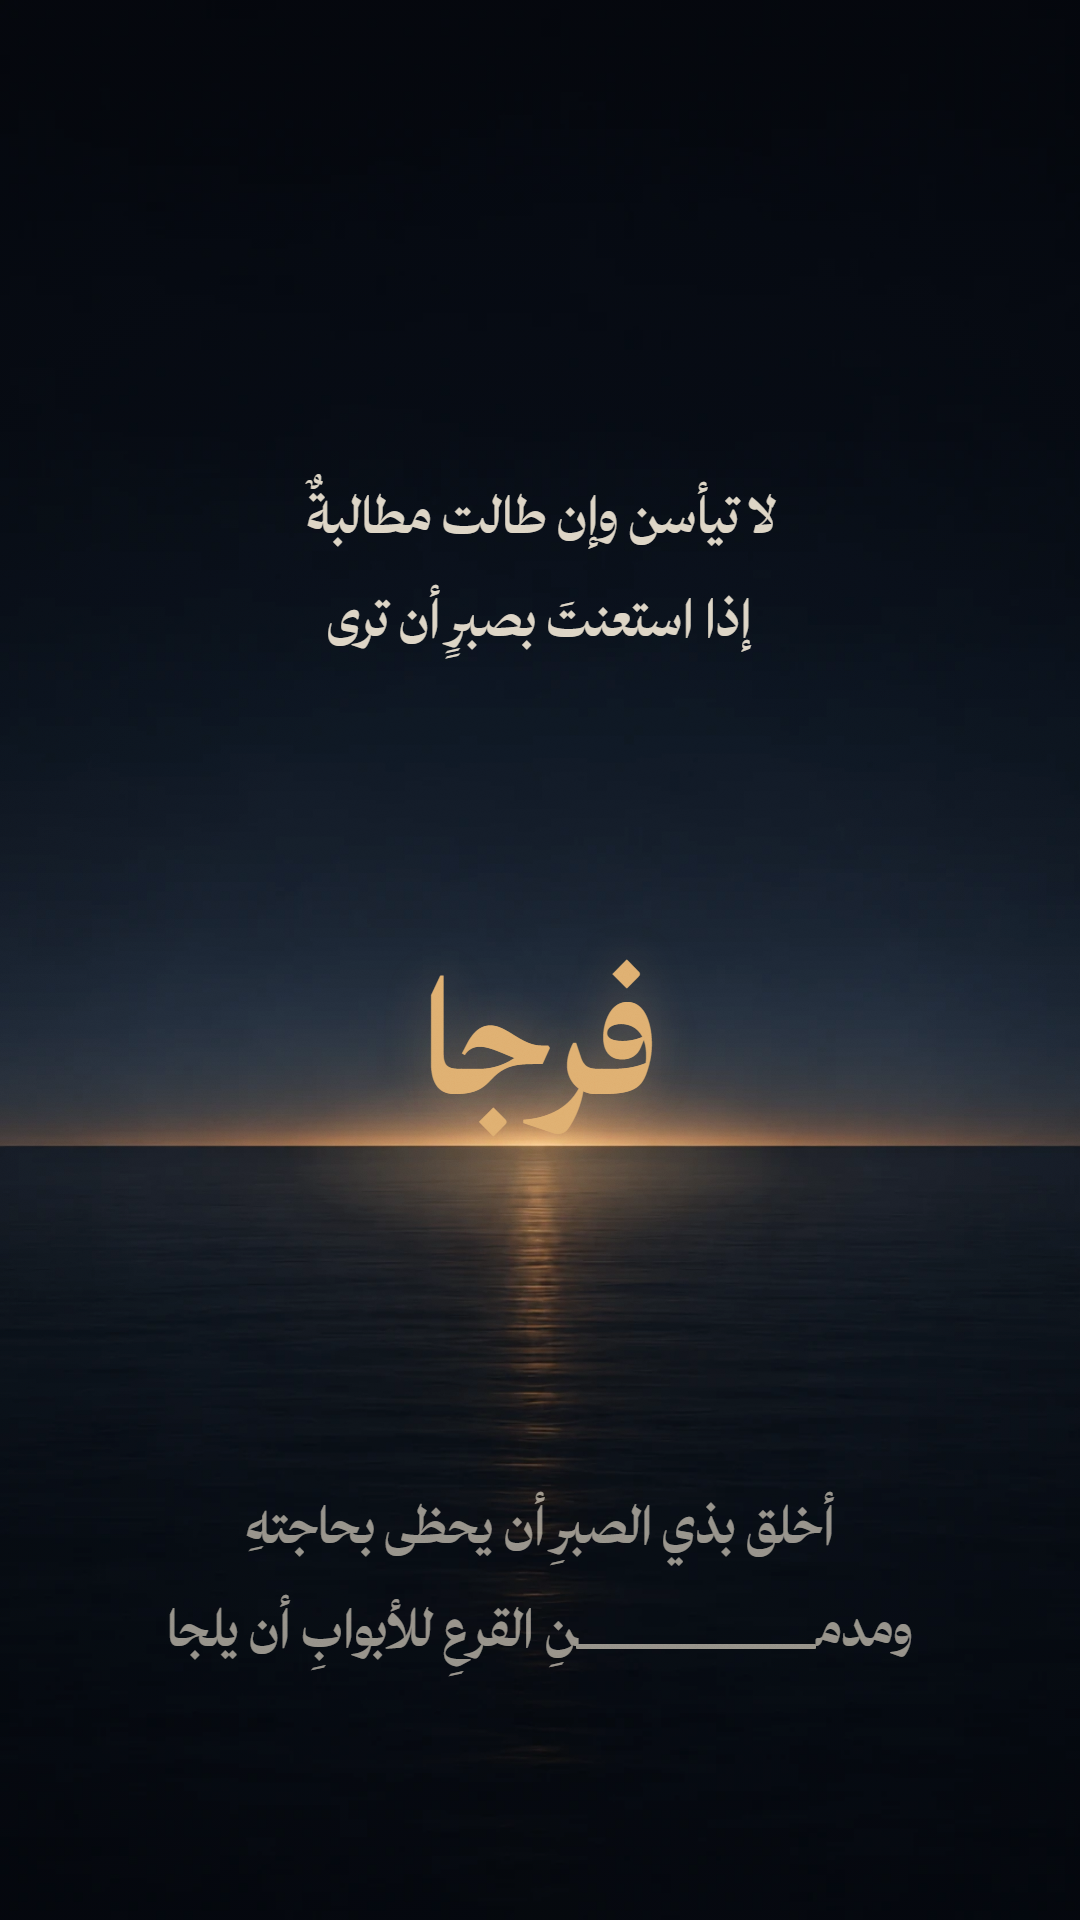
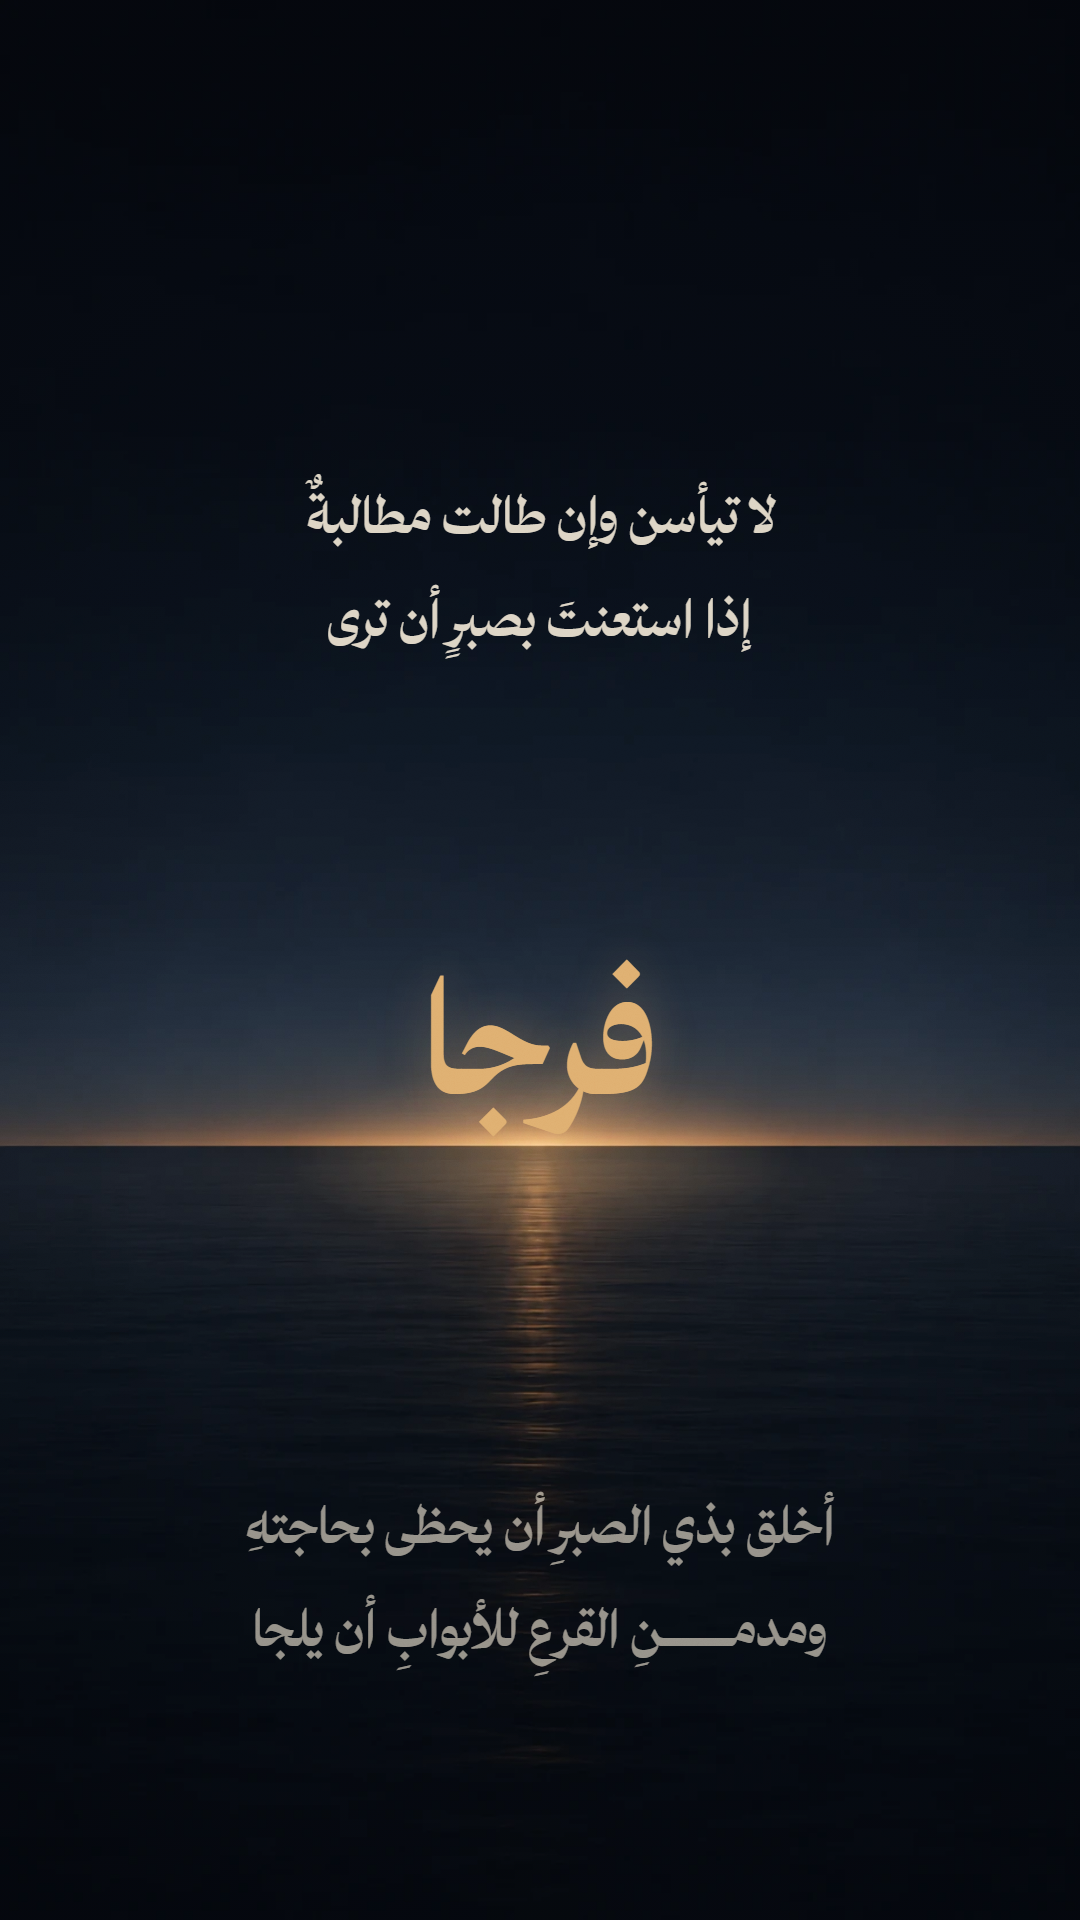
fix(story): use the font's own kashida for the stretched letter in sea4
The drawn stroke was a flat geometric line that did not match the letterforms. The font's tatweel keeps the stroke weight and joins natural.

Changed region(s): [[0.1528, 0.8125, 0.8556, 0.875]]

diff --git a/story/sea4.html b/story/sea4.html
@@ -20,7 +20,6 @@
   .farj { position: absolute; z-index: 2; left: 0; right: 0; top: 972px; font-size: 168px; line-height: 1; color: var(--amber);
     text-shadow: 0 0 46px rgba(224,178,116,.32); }
   .b { top: 1480px; opacity: .64; }
-  .line .k { display: inline-block; width: 240px; height: 5px; background: currentColor; vertical-align: -3px; border-radius: 1px; }
   .glow { position: absolute; z-index: 1; left: 190px; right: 190px; top: 1040px; height: 210px; mix-blend-mode: screen; opacity: .5; background: radial-gradient(50% 60% at 50% 55%, rgba(224,178,116,.55), rgba(224,178,116,0) 72%); }
 </style>
 </head>
@@ -30,7 +29,7 @@
   <p class="line a"><span>لا تيأسن وإن طالت مطالبةٌ</span><span>إذا استعنتَ بصبرٍ أن ترى</span></p>
   <div class="glow"></div>
   <div class="farj">فرجا</div>
-  <p class="line b"><span>أخلق بذي الصبرِ أن يحظى بحاجتهِ</span><span>ومدم&zwj;<span class="k"></span>&zwj;نِ القرعِ للأبوابِ أن يلجا</span></p>
+  <p class="line b"><span>أخلق بذي الصبرِ أن يحظى بحاجتهِ</span><span>ومدمـــــــنِ القرعِ للأبوابِ أن يلجا</span></p>
 </main>
 </body>
 </html>
